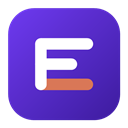
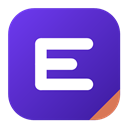
Fix the mark: it read as an F, not an E
The bottom arm was clay while the stem and other arms were white, so the eye
grouped by colour before shape: the white shapes became the letter -- stem,
top arm, middle arm, which is an F -- and the clay bar became an underline.

The letterform is now one colour, all of it. The Claude-native accent moved to
a turned-back corner of the seal, where it cannot be mistaken for part of the
glyph. Verified by rendering at 32x32 and reading it, which is the check that
would have caught this the first time; assets/README.md now records both the
rule and why.

Changed region(s): [[0.3125, 0.5938, 0.75, 0.7188], [0.6875, 0.6875, 0.9375, 0.9375]]

diff --git a/assets/README.md b/assets/README.md
@@ -12,18 +12,24 @@ A **seal**. An emissary is sent carrying authority, and a sealed dispatch is one
 you can check — which is the whole argument of the library: agents you can put in front of an
 auditor.
 
-Inside it, an **E** built from a stem and three arms. The bottom arm is Anthropic clay against
-.NET purple, so the mark says *Claude agents for .NET* before a word is read.
+Inside it, an **E** — stem and three arms — in a single colour. The Claude-native accent is the
+turned-back corner of a letter, in Anthropic clay, sitting off the letterform.
 
 | Colour | Hex | Role |
 |---|---|---|
 | Violet | `#6E3AF0` → `#3D1B9E` | The seal, a diagonal gradient. Anchored on .NET's `#512BD4`. |
-| Clay | `#D97757` | The bottom arm — the Claude-native accent. Used once, deliberately. |
-| White | `#FFFFFF` | The letterform. |
+| Clay | `#D97757` | The turned corner — the Claude-native accent. Used once, deliberately. |
+| White | `#FFFFFF` | The letterform, all of it. |
 | Wordmark violet | `#7C3AED` | Legible on both a white and a dark background, so one lockup serves both GitHub themes. |
+
+**The letterform stays one colour.** The first version of this mark put the clay on the bottom arm
+of the E, and it read as an **F**: the eye groups by colour before it groups by shape, so the white
+shapes became the letter and the clay bar became an underline. Any future accent goes on the seal,
+not on the glyph.
 
 Space around the mark: at least the height of one arm. It is designed to hold together down to
 16×16, which is why the arms are solid rather than tonal and why nothing crosses the seal's edge.
+Check any change by rendering it at 32×32 and reading it, not by looking at the 512 grid.
 
 ## Regenerating `icon.png`
 
